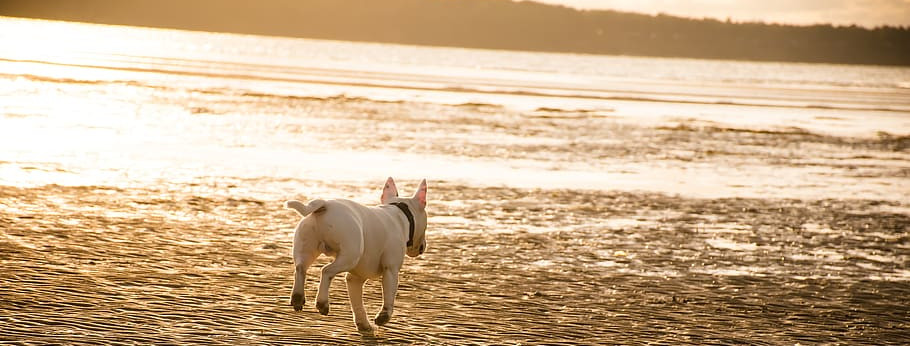
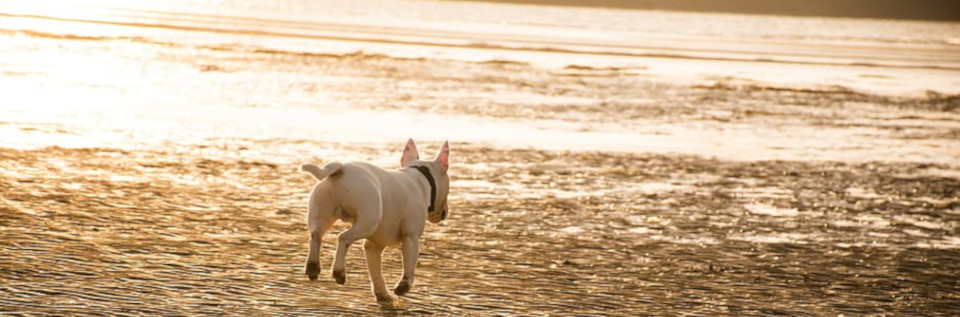
New photos for pages, add content to work section

diff --git a/index.html b/index.html
@@ -46,22 +46,22 @@
 							<article id="intro">
 								<h2 class="major">Intro</h2>
 								<span class="image main"><img src="images/dog_intro.jpg" alt="" /></span>
-								<p>Welcome to my portfolio website. This site showcases some  <a href="#work">projects</a> I have worked on, contains a brief biography discussing my training in computer science and career aspirations, and lists my contact information.</p>
+								<p>Welcome to my ePortfolio, the site consists of four pages. The Intro page, which you are on, outlines the content and structure of the site. The <a href="#work">Work</a> page discusses the design and implementation of some projects I have worked on both in and out of school, it also contains a link to my github account where you can view my work. The About page details some of my course work at the University of Minnesota-Twin Cities and discusses my career interests. Finally, the Contact page contains my contact information as well as a copy of my resume.</p>
 
 							</article>
 
 						<!-- Work -->
 							<article id="work">
 								<h2 class="major">Work</h2>
-								<span class="image main"><img src="images/pic06.jpg" alt="" /></span>
-								<p>Adipiscing magna sed dolor elit. Praesent eleifend dignissim arcu, at eleifend sapien imperdiet ac. Aliquam erat volutpat. Praesent urna nisi, fringila lorem et vehicula lacinia quam. Integer sollicitudin mauris nec lorem luctus ultrices.</p>
-								<p>Nullam et orci eu lorem consequat tincidunt vivamus et sagittis libero. Mauris aliquet magna magna sed nunc rhoncus pharetra. Pellentesque condimentum sem. In efficitur ligula tate urna. Maecenas laoreet massa vel lacinia pellentesque lorem ipsum dolor. Nullam et orci eu lorem consequat tincidunt. Vivamus et sagittis libero. Mauris aliquet magna magna sed nunc rhoncus amet feugiat tempus.</p>
+								<span class="image main"><img src="images/work.jpg" alt="" /></span>
+								<p>The first project we will be discussing is the Bus-Simulation. This software creates a simple bus simulator, in which the user can view a simulation of the University of Minnesota Campus Connector via a simulation graphics panel which displays a map, sliders for configuring the simulation, a pause button, for temporarily pausing the simulation and a start button, for starting the execution of the simulation. The back-end is written in c++ and makes use of High Cohesion / Low Coupling heuristics. The program design makes use of the factory, decorator and observer patterns in it’s implementation.</p>
+								<p>The second project we will discuss is an Ambulance-dispatch simulation. This program is designed to simulate an ambulance dispatch service. It can give you information about wait time for an ambulance given an input file containing call times, level of severity of each call, and the number of ambulances on duty. This program uses the java class priority queue, as well as LocalTime.</p>
 							</article>
 
 						<!-- About -->
 							<article id="about">
 								<h2 class="major">About</h2>
-								<span class="image main"><img src="images/pic03.jpg" alt="" /></span>
+								<span class="image main"><img src="images/about.JPG" alt="" /></span>
 								<p>Lorem ipsum dolor sit amet, consectetur et adipiscing elit. Praesent eleifend dignissim arcu, at eleifend sapien imperdiet ac. Aliquam erat volutpat. Praesent urna nisi, fringila lorem et vehicula lacinia quam. Integer sollicitudin mauris nec lorem luctus ultrices. Aliquam libero et malesuada fames ac ante ipsum primis in faucibus. Cras viverra ligula sit amet ex mollis mattis lorem ipsum dolor sit amet.</p>
 							</article>
 
